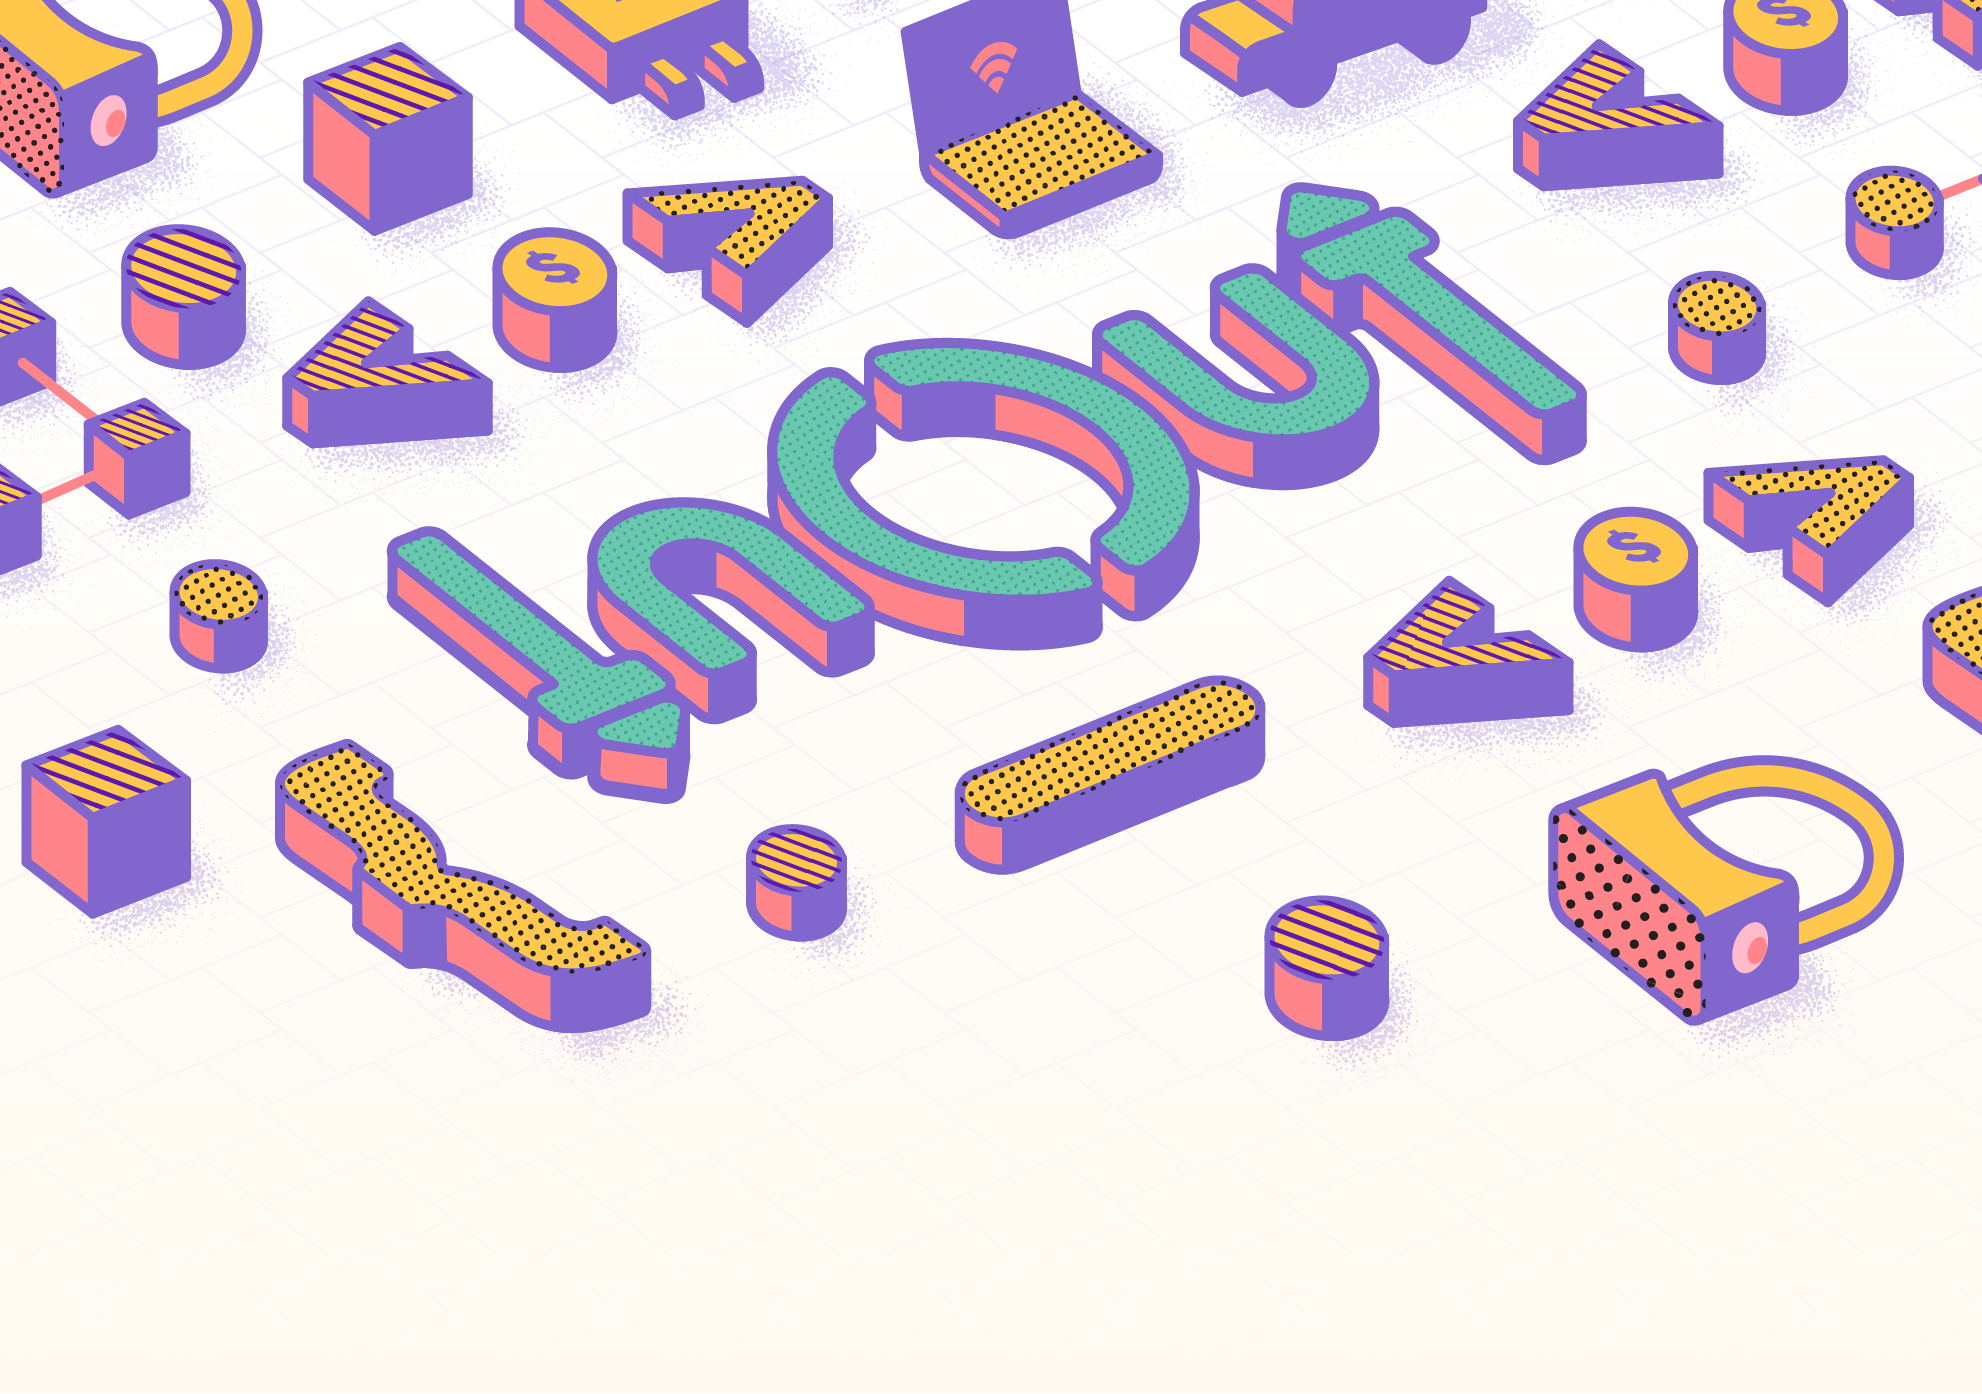
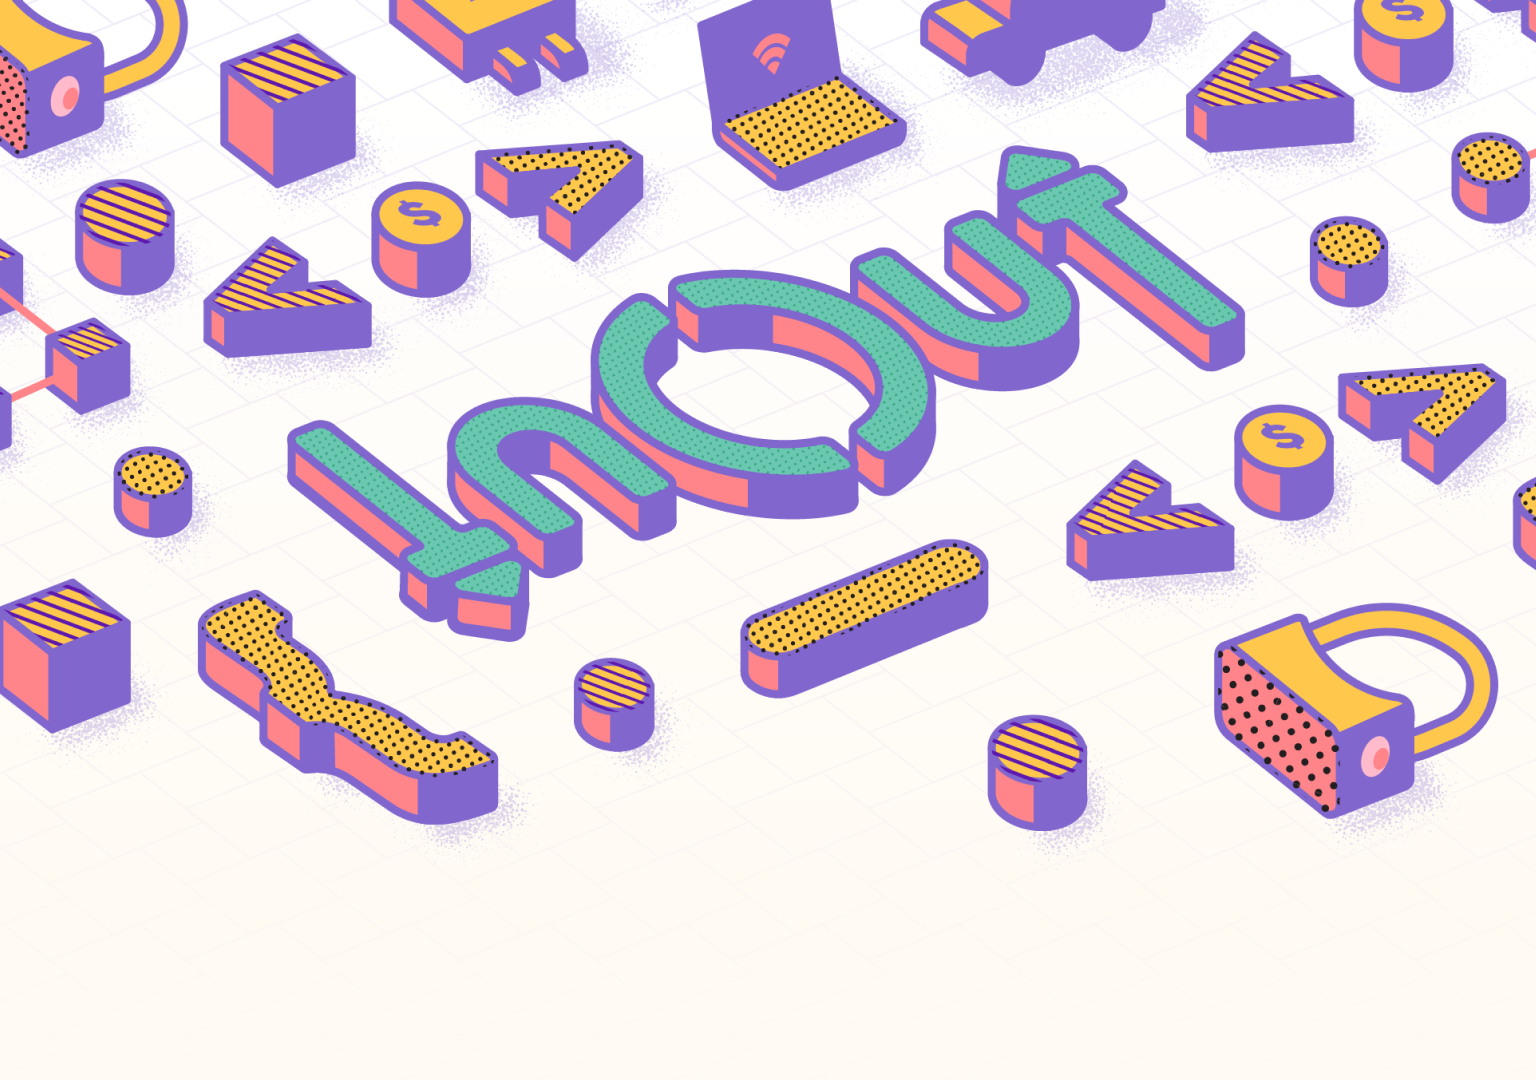
:recycle: Update hero mobile

diff --git a/src/index.html b/src/index.html
@@ -60,9 +60,9 @@
   <!-- Hero -->
   <header id="header">
     <div class="hero-image">
-      <img src="img/hero-mobile@2x.png" srcset="img/hero-mobile.png 1x, img/hero-mobile@2x.png 2x" alt="InOut Hero Image" class="img-fluid d-block d-lg-none"
+      <img src="img/hero-mobile@2x.png" srcset="img/hero-mobile.png 1x, img/hero-mobile@2x.png 2x" alt="InOut Hero Image" class="img-fluid d-block d-md-none"
       />
-      <div id="heroImage" class="d-none d-lg-block">
+      <div id="heroImage" class="d-none d-md-block">
         <img src="img/hero@2x.png" srcset="img/hero.png 1x, img/hero@2x.png 2x" alt="Hero Image" class="img-fluid background" />
 
         <img src="img/art-circle-2@2x.png" srcset="img/art-circle-2.png 1x, img/art-circle-2@2x.png 2x" alt="circle" class="art-item circle big c1"
@@ -128,7 +128,7 @@
         </svg>
       </div>
     </div>
-    <div class="container position-relative">
+    <div class="container position-relative mt-md-4 mt-lg-0">
       <div class="d-flex justify-content-center flex-column flex-md-row align-items-center">
         <div class="header-text mx-lg-5 text-center text-md-left">
           <div class="subtitle">Fifth Edition</div>
@@ -689,6 +689,7 @@
       <div id="footerImage" class="d-none d-lg-block"></div>
       <div class="footer-container">
         <div class="container">
+
           <div class="footer-bar d-flex justify-content-between flex-column flex-md-row align-items-center">
             <div>
               <a href="#">Code of Conduct</a>
